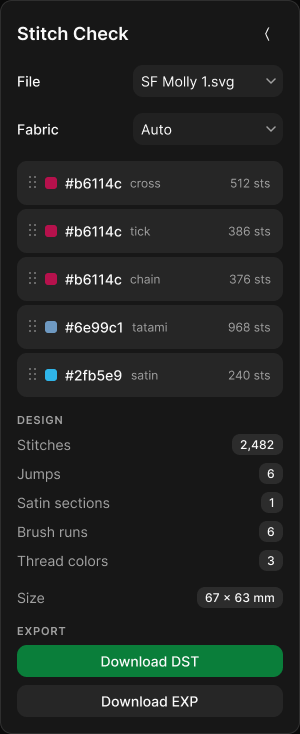
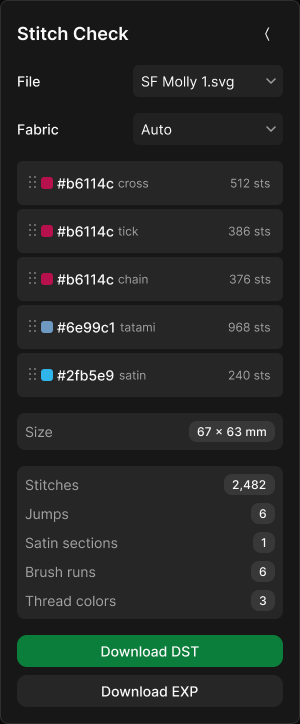
feat(openspec): tasks for retire-umbrella-switches — planning complete
Ten user outcomes mapped 1:1 to the spec scenarios across both
capabilities, seven implementation tasks and three QA items.

Also captures the founder's polish on 03.5 — layer rows at radius 6,
Size and Design promoted to filled cards with Size above Design — and
normalizes one layer row that carried 8px padding where its four
siblings carry 12, which was the same misalignment flagged earlier.

diff --git a/openspec/changes/retire-umbrella-switches/tasks.md b/openspec/changes/retire-umbrella-switches/tasks.md
@@ -1,0 +1,86 @@
+# Tasks: retire-umbrella-switches
+
+## 1. User outcomes (from spec scenarios)
+
+- [ ] 1.1 **Panel carries no all-or-nothing stitch control** — user opens
+      the converter and finds no **Fill shapes**, **Satin narrow fills**
+      or **Satin strokes** switch; **Fabric** remains
+- [ ] 1.2 **Un-prepped art converts unchanged** — user converts an SVG
+      with no `st-` tags and gets the plan it produces today
+- [ ] 1.3 **Stitch type is reproducible from the file alone** — user
+      converts the same file in two sessions with the panel left
+      differently and gets the same stitch count, colour blocks and sew
+      order
+- [ ] 1.4 **A tagged fill overrides the hidden defaults** — user tags a
+      fill `st-tatami a0 d8` and it sews at 0° and 0.8 mm while untagged
+      regions sew at 45° and 0.4 mm
+- [ ] 1.5 **A fill tagged st-run sews its outline** — user tags a filled
+      shape `st-run` and only its boundary rings sew, with no interior
+      hatching
+- [ ] 1.6 **Margin inside the frame survives** — user tags a frame
+      `patch st-size w635` with an inset motif and the design converts
+      63.5 mm overall with the inset intact, not the motif scaled up to
+      fill it
+- [ ] 1.7 **A nested size sizes its own subtree** — user nests
+      `st-size w200` inside a frame tagged `st-size w635` and the design
+      stays 63.5 mm while that group sews 20 mm
+- [ ] 1.8 **A bare group cannot declare a size** — user tags a group that
+      exports with neither a clip nor a background and the conversion
+      fails, naming the layer
+- [ ] 1.9 **Bought art still converts** — user converts an SVG with no
+      `st-size` and no physical units and gets 63.5 mm, as today
+- [ ] 1.10 **An impossible size is refused** — user tags `st-size w5000`
+      and the conversion fails, naming the layer and the value
+
+## 2. Prototype shell
+
+- [ ] 2.1 No new shell — the surface is the existing converter at
+      `app/svg-to-stitch/` (dev: `npm run dev`, tests: `npm test`).
+      Confirm the page builds unchanged before removal work starts
+
+## 3. Implementation
+
+- [ ] 3.1 `app/svg-to-stitch/page.tsx` — remove the three `Switch` rows
+      and their state, and the **Design size**, **Fill angle** and **Fill
+      density** selects. **Fabric** and every readout stay
+- [ ] 3.2 `lib/svg-to-stitch/convert.ts` — drop the `fillMode`,
+      `satinFills` and `satinStrokes` options and delete the
+      `fillMode === "outline"` branch; `rejectBrushOnFill` and
+      `checkTagDensity` collapse back to one call site each. Keep the
+      fill angle and spacing defaults at 45° and 0.4 mm
+- [ ] 3.3 `lib/svg-to-stitch/svg-parse.ts` — add `st-size` to the
+      directive grammar, reusing the existing `w` parameter (mm ×10).
+      Resolve it **outermost-first**, against the innermost-wins rule the
+      other directives use — see the callout in the spec
+- [ ] 3.4 `lib/svg-to-stitch/svg-parse.ts` — read a tagged element's box:
+      the root `<svg>`'s `width`/`height`/`viewBox`, or a referenced clip
+      rect. `clippath` is currently in `SKIP_TAGS`, so a group has no
+      readable box today. Apply the existing CSS length parser (it
+      already carries an `mm` factor) so `width="63.5mm"` is honoured
+- [ ] 3.5 `lib/svg-to-stitch/convert.ts` — scale from the declared box
+      rather than the artwork bounds when a size is declared, preserving
+      margin; fall back to `bounds.span / 63.5` when nothing is declared.
+      Error loudly for an unmeasurable element and for a size outside
+      10–400 mm
+- [ ] 3.6 `experiments/svg-to-stitch/docs/stitch-authoring.md` — add
+      `st-size` to the tag table, rewrite the untagged fallback from
+      future tense to shipped behaviour, and **reverse decision 2**,
+      which currently reads "Physical size: panel only … No size tags".
+      Record the cascade as the model the vocabulary follows
+- [ ] 3.7 `experiments/svg-to-stitch/README.md` — panel description
+
+## 4. QA
+
+- [ ] 4.1 Manual walkthrough (ingest → tweak → download): convert a
+      tagged design and an untagged one, confirm the panel offers no
+      stitch control, that a declared size comes out at that size with
+      its margin, and that DST and EXP still download
+- [ ] 4.2 Automated smoke (vitest): a `document-declared-size` suite —
+      declared size, nested size, unmeasurable element, undeclared
+      fallback, out-of-range — plus coverage that untagged conversion is
+      byte-identical to today's default-panel output. Retire the
+      outline-mode regressions in `tests/svg-to-stitch-brush.test.ts`
+      with the mode they guard. Full `npm test` stays green
+- [ ] 4.3 Founder review of the Figma rounds before implementation: `02`
+      through `03.5` are all open, and `03.5` changes the sew order in a
+      way this change does not build
